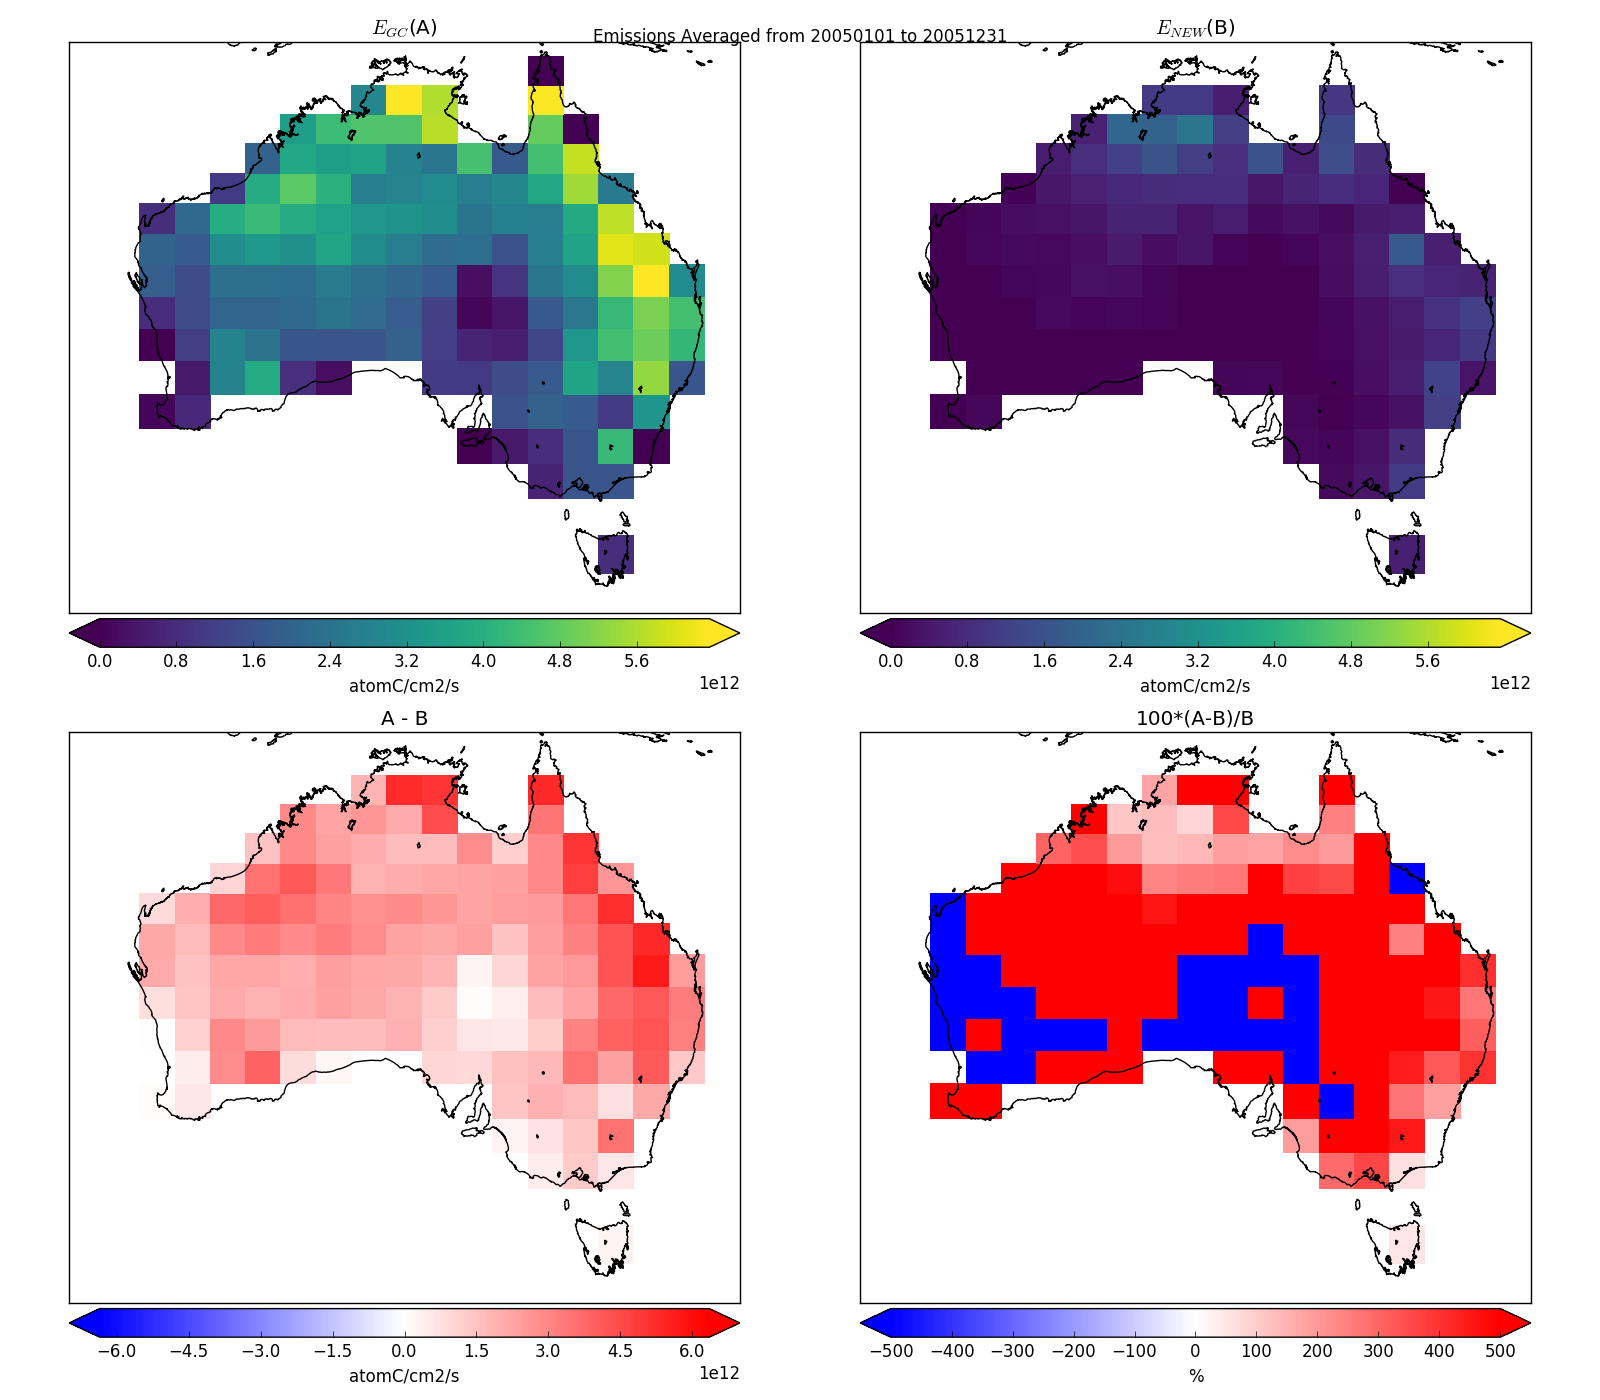
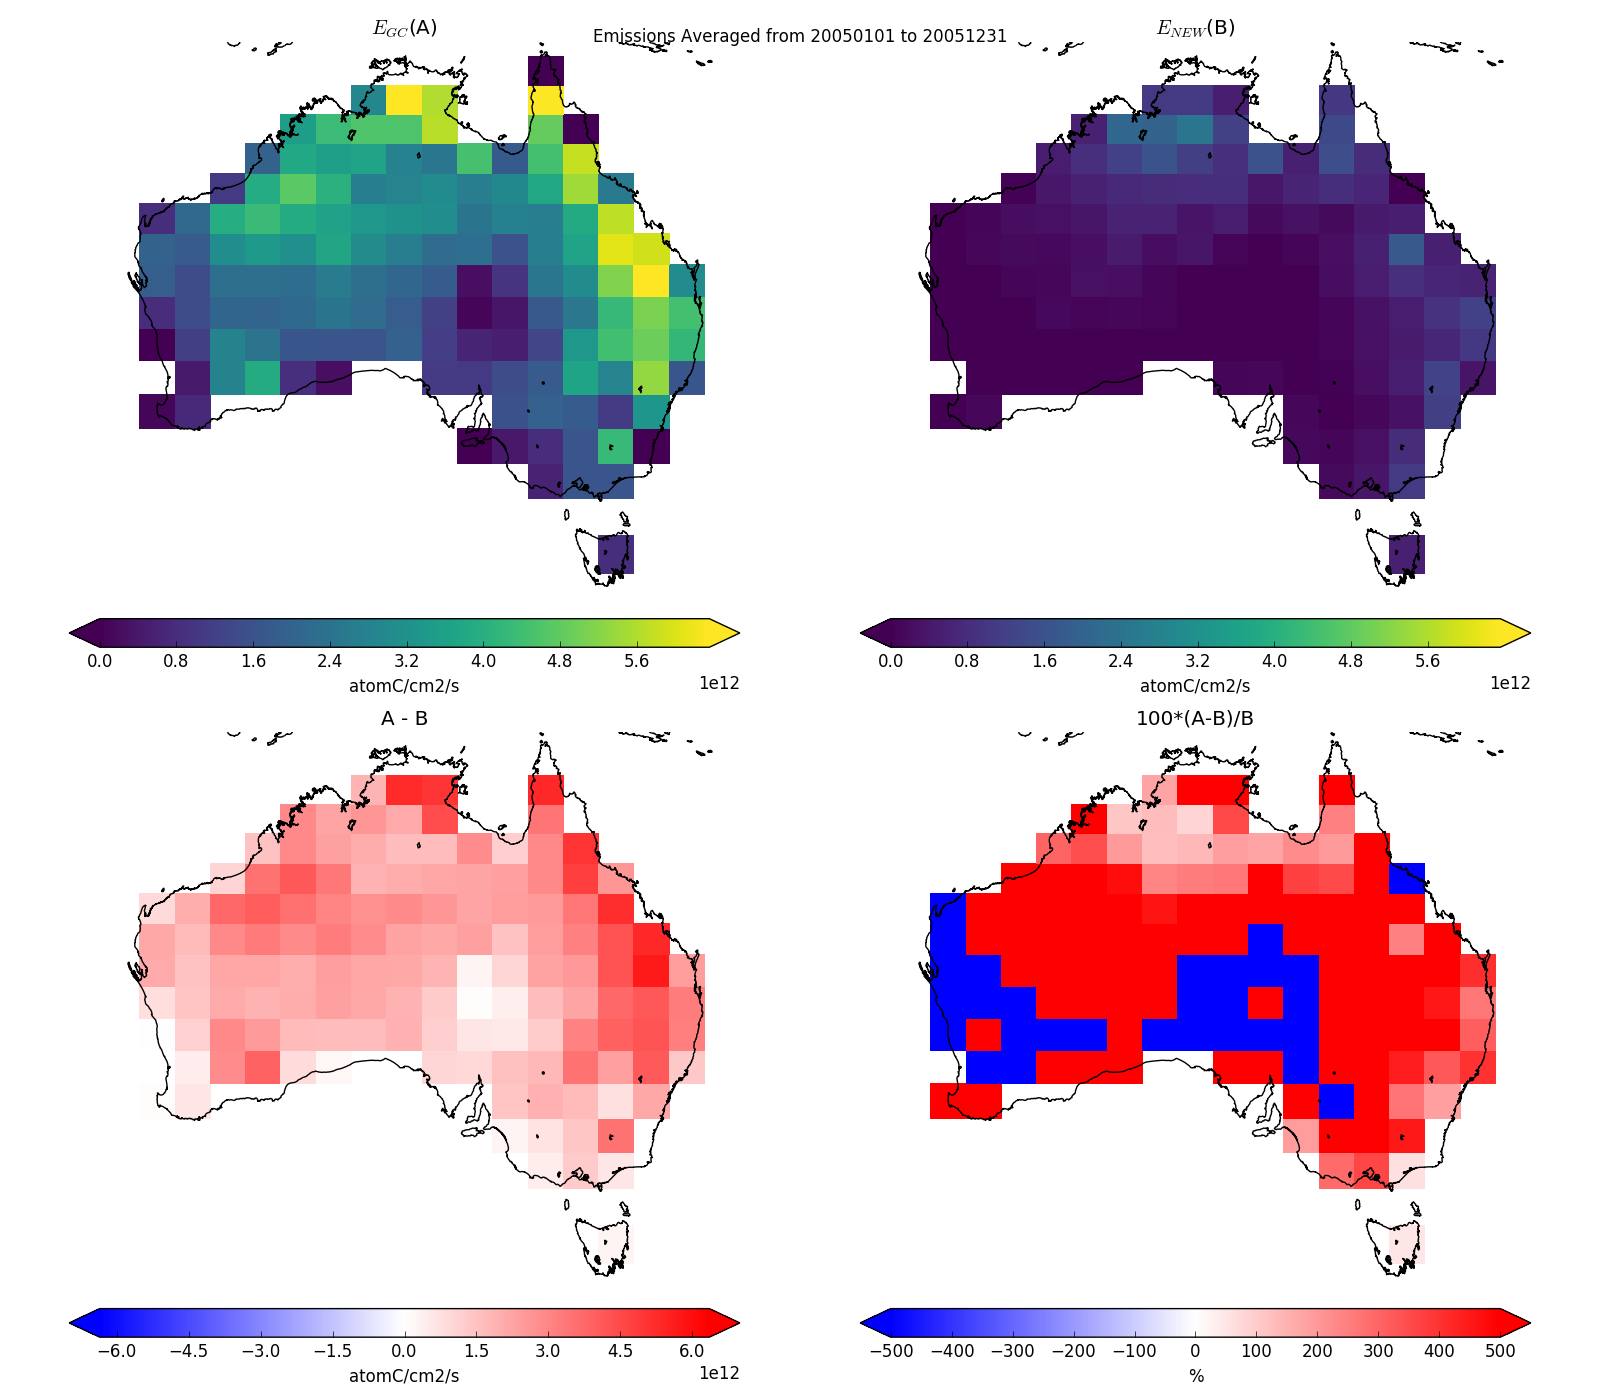
updated Tg per year plots and stuff

Changed region(s): [[0.9375, 0.5221, 0.9688, 0.5529], [0.5312, 0.5221, 0.5625, 0.5529], [0.4375, 0.5221, 0.4688, 0.5529]]

diff --git a/Analyse_E_isop.py b/Analyse_E_isop.py
@@ -1,4 +1,4 @@
-Ru#!/usr/bin/env python3
+#!/usr/bin/env python3
 # -*- coding: utf-8 -*-
 """
 Created on Mon Jul 17 10:25:42 2017
@@ -920,18 +920,106 @@ def Compare_to_daily_cycle(month=datetime(2005,1,1),lat=-33,lon=151):
     pp.plot_time_series(Enewdates,Enew.GC_E_isop[:,lati,loni],color='r')
     plt.savefig('test.png')
 
+def show_subregions():
+    '''
+        Show subregions over which several analyses are perform
+    '''
+    colors=pp.__subregions_colors__
+    colors[0]='grey'
+    pp.displaymap(region=np.array(pp.__AUSREGION__) + np.array([-5,-10,5,10]),
+                  subregions=pp.__subregions__,labels=pp.__subregions_labels__,
+                  colors=colors, linewidths=[3,2,2,2,2,2],
+                  fontsize='large'  )
+    plt.savefig('Figs/subregions.png')
+
+def tga_summary(day0=datetime(2005,1,1), daye=datetime(2007,12,31)):
+    '''
+        calculate, print and plot emissions in Tg/annum from Enew and Egc
+    '''
+    years = util.list_years(day0,daye)
+    omi=[]
+    gc =[]
+    gca=[]
+    for year in years:
+        d0=year
+        de=datetime(d0.year,12,31)
+
+        ## read MEGAN, get tg/a emissions
+        #
+        hemco=GC_class.Hemco_diag(d0,de)
+        hemco._set_E_isop_bio_kgs()
+        E_GC = hemco.E_isop_bio_kgs*3600 # kg/s -> kg/hr
+        # sum over time to get Tg/year  (Tg/kg = 1e-9)
+        E_GC_total = np.sum(E_GC, axis=0) * 1e-9
+        subset = util.lat_lon_subset(hemco.lats,hemco.lons, region= pp.__AUSREGION__, data=[E_GC_total])
+
+        E_GC_aus = subset['data'][0]
+
+        ## Read E_OMI and get tg/a emissions
+        #
+        Enew=E_new(d0,de)
+        lats=Enew.lats_lr
+        lons=Enew.lons_lr
+        dates=Enew.dates
+        assert np.all(lats == subset['lats']), 'lats are wrong!?'
+
+        # daylengths are from 14hrs (mid-summer) to 10hrs (mid-winter)
+        # daylengths extend change by 20, 40, 60, 60, 40, 20 minutes between peaks
+        monthly_daylength_changes = np.array([20, -20, -40, -60, -60, -40, -20, 20, 40, 60, 60, 40])
+        monthly_daylengths = 14*60-20 + np.cumsum(monthly_daylength_changes) # in minutes
+
+        daily_daylengths = np.array([monthly_daylengths[d.month-1] for d in dates])/60.0 # in hours
+        # repeat over lat,lon axes
+        daily_daylengths = np.repeat(daily_daylengths[:,np.newaxis], len(lats), axis=1)
+        daily_daylengths = np.repeat(daily_daylengths[:,:,np.newaxis], len(lons), axis=2)
+        midday_kg = Enew.E_VCC_PP_lr * Enew.conversion_to_kg_lr * 3600 # in kg/hours
+        midday_kg[midday_kg<0] = 0
+        daily_kg = midday_kg * 0.637 *daily_daylengths
+        E_OMI_total = np.nansum(daily_kg,axis=0) * 1e-9 # kg/day -> total Tg
+
+        print ('year: ',year.year)
+        print ('    global MEGAN : ' , np.sum(E_GC_total))
+        print ('    aus MEGAN    : ' , np.sum(E_GC_aus))
+        print ('    aus OMI      : ' , np.nansum(E_OMI_total))
+        # store yearly total (keep spatial dims)
+        omi.append(E_OMI_total)
+        gca.append(E_GC_aus)
+        gc.append(E_GC_total)
+
+    omi = np.array(omi) # should be [year, lats, lons]
+    gc  = np.array(gc)
+    gca = np.array(gca)
+
+    pname='Figs/Emiss/tga_map.png'
+    gca_flat = np.nanmean(gca,axis=0)
+    omi_flat = np.nanmean(omi,axis=0)
+    gca_flat[gca_flat<1e-6] = np.NaN
+    omi_flat[omi_flat<1e-6] = np.NaN # set zeros to NaN for image
+    a,b = pp.compare_maps([gca_flat,omi_flat],[lats,lats],[lons,lons], rmin=-400,rmax=400,
+                          titles=['E$_{GC}$','E$_{OMI}$'], linear=True, pname=pname)
+
+
+    # total over spatial dims
+    omi= np.nansum(omi,axis=(1,2))
+    gc = np.nansum(gc,axis=(1,2))
+    gca= np.nansum(gca,axis=(1,2))
+    print('TOTALS: ',day0.year, ' - ', daye.year)
+    print(' mean(std) global MEGAN:  %.2f (%.2f)'%(np.mean(gc), np.std(gc)))
+    print(' mean(std) aus MEGAN   :  %.2f (%.2f)'%(np.mean(gca), np.std(gca)))
+    print(' mean(std) aus OMI     :  %.2f (%.2f)'%(np.mean(omi), np.std(omi)))
+
 if __name__=='__main__':
 
-    # try running
-    #JennySEA=[-38, 145, -30, 153]
-    #JennySEA_fixed=GMAO.edges_containing_region(JennySEA) # [-37, 143.75,-29, 153.75]
-    SEAus=[-41,138.75,-25,156.25]
-    regions=pp.__AUSREGION__, SEAus#, JennySEA_fixed
 
     d0=datetime(2005,1,1)
     d1=datetime(2005,1,31)
     dn=datetime(2005,12,31)
     de=datetime(2007,12,31)
+
+    ## Tga summary
+    #
+    tga_summary()
+
 
     ## Plot megan daily cycle vs top-down emissions in several zones
     #yearly_megan_cycle(d0,de)

diff --git a/localtests.py b/localtests.py
@@ -65,42 +65,7 @@ start1=timeit.default_timer()
 ### DO STUFFS
 ##########
 
-#testread = GC_class.Hemco_diag(d0,d3)
 
-d0=datetime(2005,1,1)
-de=datetime(2005,1,31)
-
-Enew=E_new(d0,de)
-lats=Enew.lats_lr
-lons=Enew.lons_lr
-dates=Enew.dates
-
-# daylengths are from 14hrs (mid-summer) to 10hrs (mid-winter)
-# daylengths extend change by 20, 40, 60, 60, 40, 20 minutes between peaks
-monthly_daylength_changes = np.array([20, -20, -40, -60, -60, -40, -20, 20, 40, 60, 60, 40])
-monthly_daylengths = 14*60-20 + np.cumsum(monthly_daylength_changes) # in minutes
-
-daily_daylengths = np.array([monthly_daylengths[d.month-1] for d in dates])/60.0 # in hours
-# repeat over lat,lon axes
-daily_daylengths = np.repeat(daily_daylengths[:,np.newaxis], len(lats), axis=1)
-daily_daylengths = np.repeat(daily_daylengths[:,:,np.newaxis], len(lons), axis=2)
-midday_kg = Enew.E_VCC_PP_lr * Enew.conversion_to_kg_lr * 3600 # in kg/hours
-daily_kg = midday_kg * 0.637 *daily_daylengths
-daily_kg_neg = daily_kg.copy()
-midday_kg[midday_kg<0] = 0
-daily_kg = midday_kg * 0.637 *daily_daylengths
-print('with negatives: ',np.nanmean(daily_kg_neg))
-print('without negatives: ',np.nanmean(daily_kg))
-print('diff = ', 100*(np.nanmean(daily_kg)-np.nanmean(daily_kg_neg))/np.nanmean(daily_kg_neg))
-
-
-colors=pp.__subregions_colors__
-colors[0]='grey'
-pp.displaymap(region=np.array(pp.__AUSREGION__) + np.array([-5,-10,5,10]),
-              subregions=pp.__subregions__,labels=pp.__subregions_labels__,
-              colors=colors, linewidths=[3,2,2,2,2,2],
-              fontsize='large'  )
-plt.savefig('Figs/subregions.png')
 
 ###########
 ### Record and time STUJFFS

diff --git a/classes/GC_class.py b/classes/GC_class.py
@@ -446,17 +446,16 @@ class GC_base:
         # cm2/km2 * km2 * kg/isop
         conversion= 1e10 * SA * kg_per_atom
 
-        print(E.shape,conversion.shape, self.area.shape)
-        if len(conversion.shape) > 2:
-            conversion=conversion[0]
-        print(E.shape,conversion.shape)
+        #print(E.shape,conversion.shape, self.area.shape)
+        #if len(conversion.shape) > 2:
+        #    conversion=conversion[0]
+        #print(E.shape,conversion.shape)
 
         if self._has_time_dim:
             self.E_isop_bio_kgs = np.zeros(np.shape(E))
-            for t in range(len(self.dates)):
-                self.E_isop_bio_kgs[t]=E[t] * conversion
-        else:
-            self.E_isop_bio_kgs=E * conversion
+            conversion=np.repeat(conversion[np.newaxis,:,:], len(self.dates), axis=0)
+
+        self.E_isop_bio_kgs=E * conversion
         self.attrs['E_isop_bio_kgs']={'units':'kg/s',}
 
 class GC_tavg(GC_base):

diff --git a/utilities/plotting.py b/utilities/plotting.py
@@ -966,6 +966,9 @@ def compare_maps(datas, lats, lons, pname=None, titles=['A','B'], suptitle=None,
     args['clabel']="%"
     createmap((A-B)*100.0/B, suptitle=suptitle, **args)
 
+    for ax in [axes[0,0],axes[0,1],axes[1,0],axes[1,1]]:
+        remove_spines(ax)
+
     if pname is not None:
         plt.tight_layout()
         plt.savefig(pname)

diff --git a/tests.py b/tests.py
@@ -135,6 +135,7 @@ def compare_campaigns():
     plt.close()
     print('SAVED ',pname)
 
+
 def check_HEMCO_restarts():
     '''
         Check how different the hemco restarts are between UCX and tropchem
